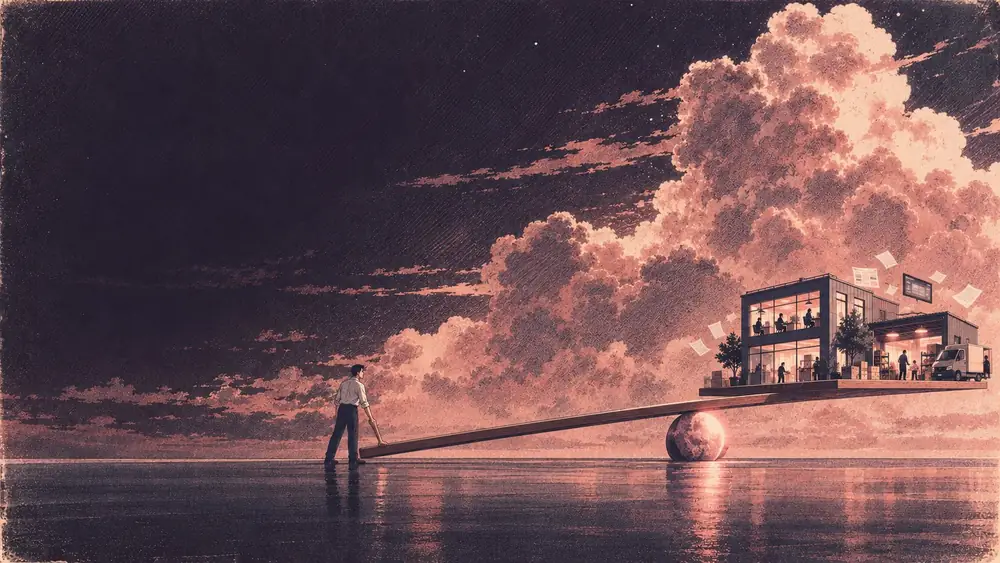
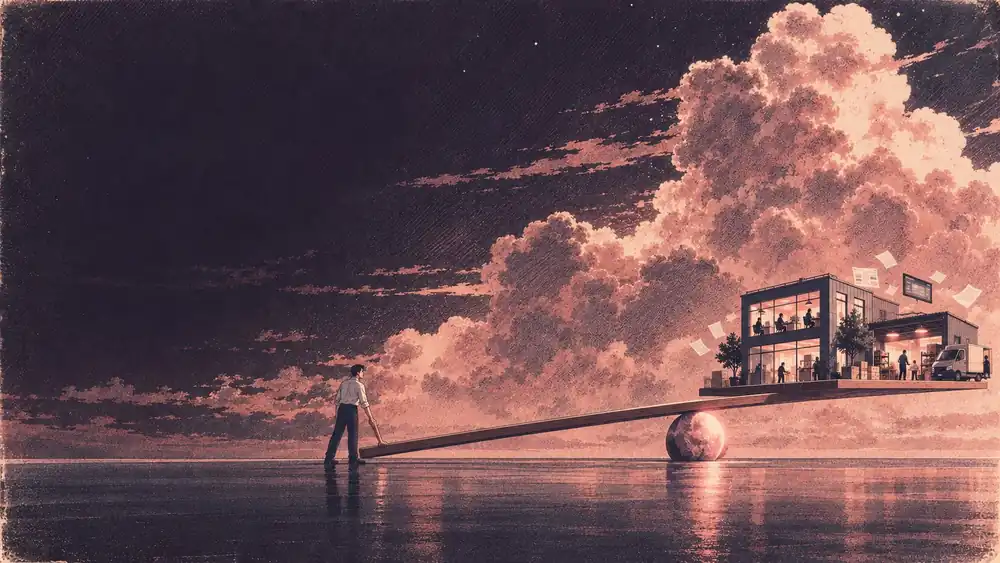
PageSpeed mobile : vignette photo legere, scripts en defer, image mobile compressee, contraste du slogan, bandeau cookies moins haut sur telephone

diff --git a/index.html b/index.html
@@ -57,7 +57,7 @@
 }
 </script>
 <link rel="stylesheet" href="assets/css/cookie-consent.css">
-<link rel="stylesheet" href="assets/css/accueil-test.css?v=4">
+<link rel="stylesheet" href="assets/css/accueil-test.css?v=5">
 </head>
 <body class="lp">
 <a class="skip-link" href="#main">Aller au contenu</a>
@@ -111,7 +111,7 @@
           <span class="lp-cta-note">En visio, gratuit et sans engagement</span>
         </div>
         <p class="lp-proof-line hx" style="--i:5">
-          <img src="assets/img/anne-cecile.jpg" alt="Anne-Cécile Le Dain, fondatrice de KléIA Solutions" width="48" height="48">
+          <img src="assets/img/anne-cecile-vignette.jpg" alt="Anne-Cécile Le Dain, fondatrice de KléIA Solutions" width="48" height="48">
           <span><strong>Anne-Cécile Le Dain</strong> : 15 ans à diriger deux entreprises, puis 3 ans à piloter des projets IA en PME.</span>
         </p>
       </div>
@@ -431,9 +431,9 @@
   </div>
 </footer>
 
-<script src="assets/js/main.js"></script>
-<script src="assets/js/accueil-test.js?v=3"></script>
-<script src="assets/js/cookie-consent.js"></script>
+<script src="assets/js/main.js" defer></script>
+<script src="assets/js/accueil-test.js?v=3" defer></script>
+<script src="assets/js/cookie-consent.js" defer></script>
 <!-- Cloudflare Web Analytics --><script type="module" src="https://static.cloudflareinsights.com/beacon.min.js" data-cf-beacon='{"token": "4cffa31751fc4df5a259464c57eaa6ec"}'></script><!-- End Cloudflare Web Analytics -->
 </body>
 </html>

diff --git a/assets/css/cookie-consent.css b/assets/css/cookie-consent.css
@@ -64,6 +64,10 @@
     align-items: stretch;
     text-align: center;
   }
+  /* en colonne, la base de 320px s'appliquerait a la hauteur */
+  #cookie-consent-banner p {
+    flex: none;
+  }
   .cookie-consent-actions {
     justify-content: center;
   }

diff --git a/assets/css/accueil-test.css b/assets/css/accueil-test.css
@@ -8,7 +8,7 @@
 
 .lp {
   --curve: cubic-bezier(0.22, 1, 0.36, 1);
-  --ink-muted: rgba(39, 32, 48, 0.28);
+  --ink-muted: rgba(39, 32, 48, 0.55);  /* 3,5:1 sur --paper, seuil WCAG texte large */
   font-size: 16px;
   line-height: 24px;
 }
